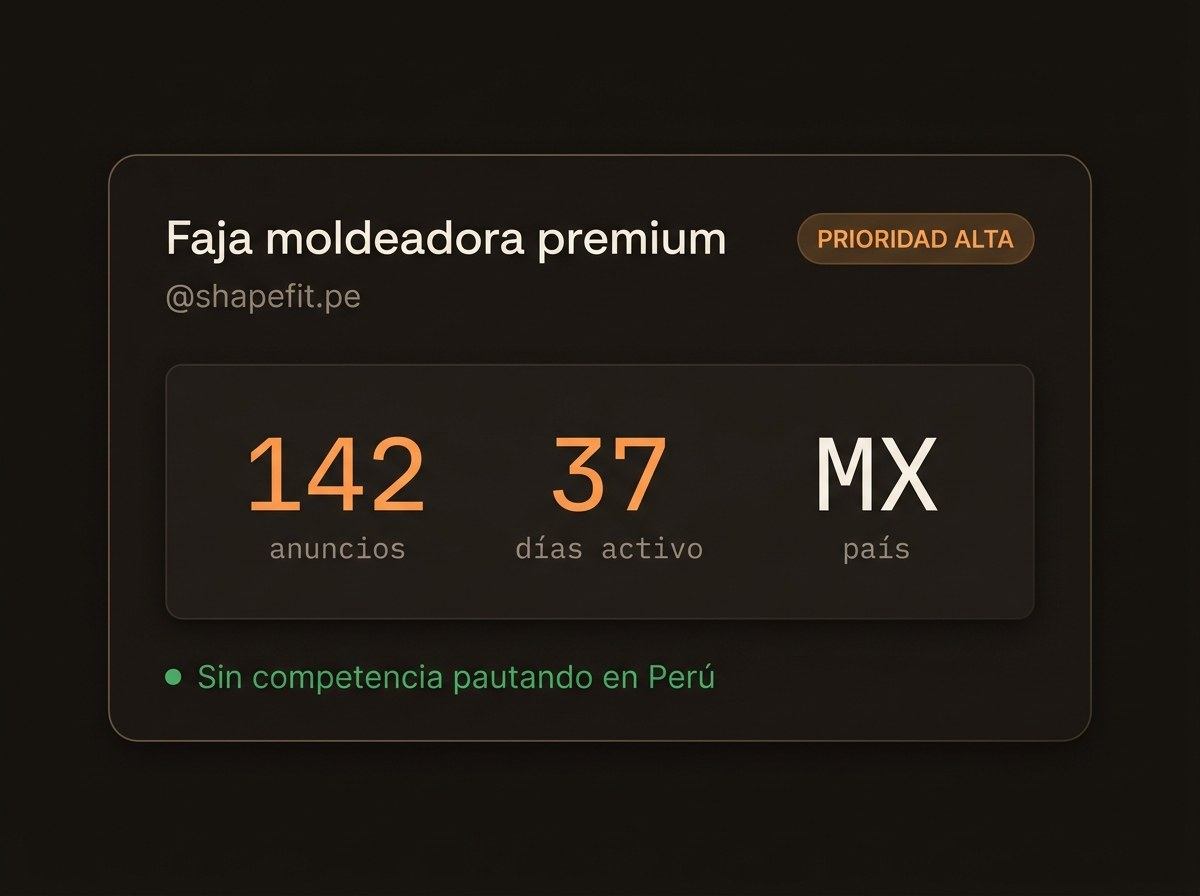
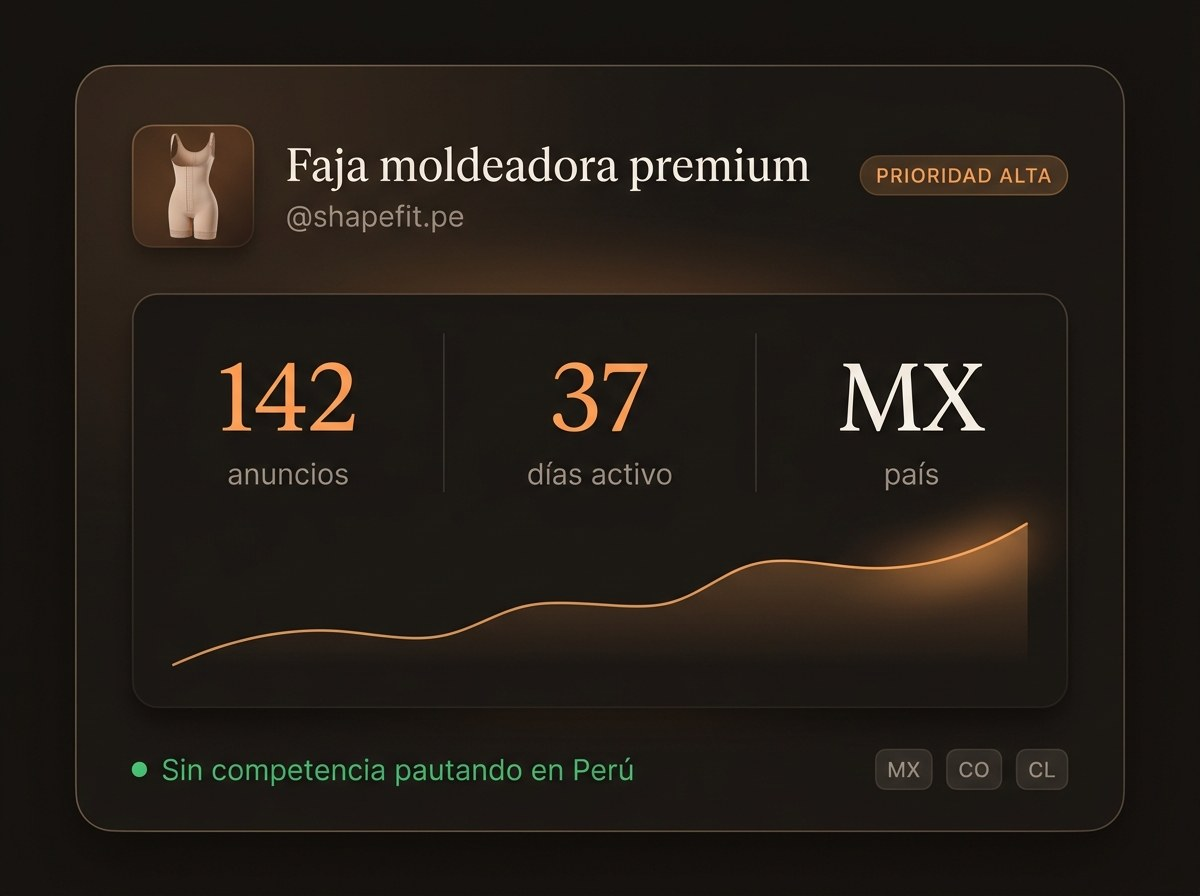
feat(web): cinta más compacta (220px) + assets ricos de buscador/calculadora
Regenerados con jerarquía editorial: serif en cifras y nombre, thumbnail de
producto, sparkline ámbar y chips de país (buscador); panel doble con ROAS/
margen serif, glow y mini bar-chart (calculadora).

diff --git a/apps/web/components/home/HeroShowcaseWall.tsx b/apps/web/components/home/HeroShowcaseWall.tsx
@@ -6,7 +6,7 @@ import { ToolPreview } from "./ToolPreview";
 // el formato nativo de cada asset.
 const tiles = tools.filter((t) => t.preview);
 
-const TILE_H = 260;
+const TILE_H = 220;
 const RATIO_W: Record<string, number> = {
   "9/16": Math.round(TILE_H * (9 / 16)),
   "1/1": TILE_H,
